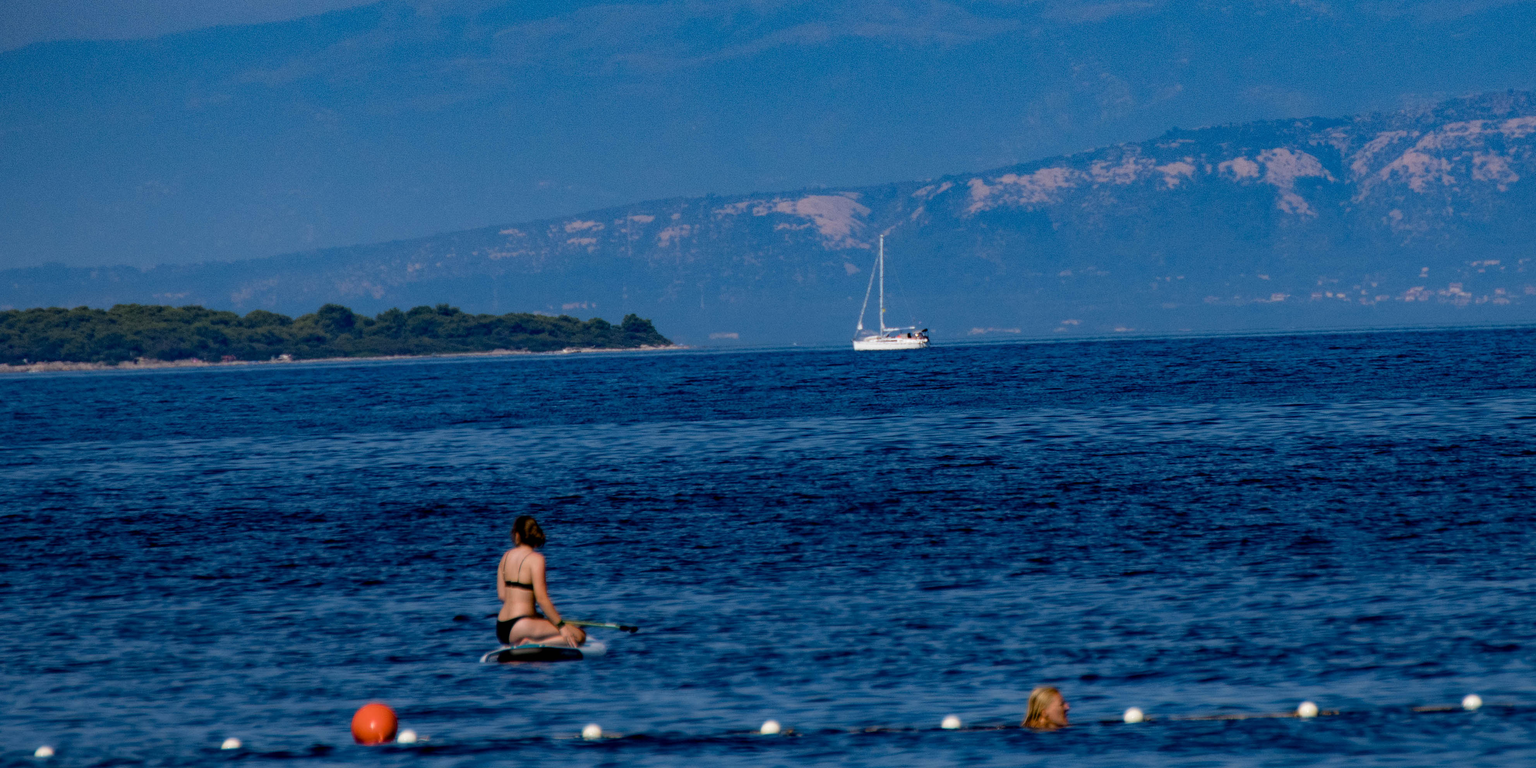
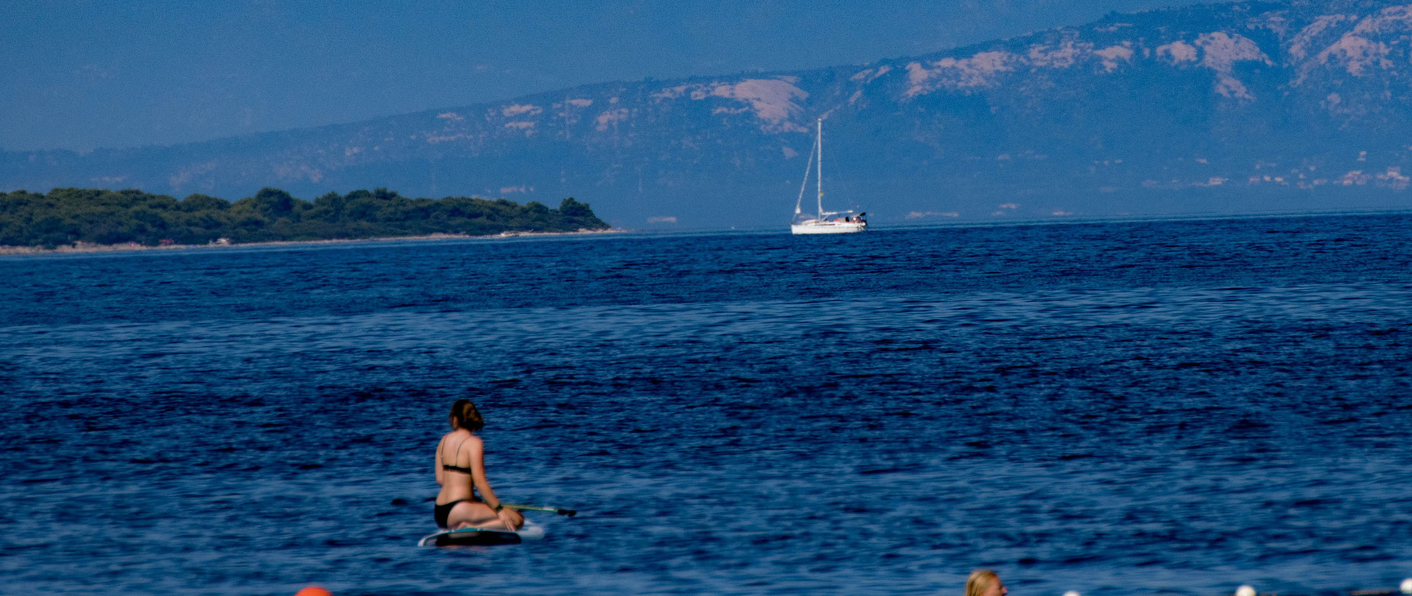
Abgabe_5_Fertigstellung

diff --git a/Aufgabe_5/Kontakt/index.html b/Aufgabe_5/Kontakt/index.html
@@ -19,8 +19,20 @@
                 <li style="float:left"><a class="logo" href="../Portfolio/"><img src="../Portfolio/Bilder/Logo.svg" alt="Logo HZB"></a></li>
             </ul>
     </header>
-    
-    <div><img src="./icon/Kopie von EDR_2345exp.jpg" alt="Portrait"></div>
+    <div id="slideshow">
+        <div class="slidewrapper">
+            <div class="slide">
+                <img src="../Slideshow/Kopie_2345exp.jpg"></div>
+            <div class="slide">
+                <img src="../Slideshow/EDR_1784exp.jpg"></div>
+            <div class="slide">
+                <img src="../Slideshow/Zuhause.jpg"></div>
+            <div class="slide">
+                <img src="../Slideshow/Anna_Ich.jpg"></div>
+            <div class="slide">
+                <img src="../Slideshow/Jetsky.jpg"></div>
+        </div>
+    </div>
 <h1>So können sie mich erreichen</h1>
     <p>E-mail: hannahzoebrauner@gmail.com</p>
     <p>Telefon: 017661916132</p>

diff --git a/Aufgabe_5/About Me/index.html b/Aufgabe_5/About Me/index.html
@@ -20,8 +20,20 @@
             </ul>
             
     </header>
-
-    <div><img src="./Bilder/Kopie von EDR_2345exp.jpg" alt="Portrait"></div>
+    <div id="slideshow">
+        <div class="slidewrapper">
+            <div class="slide">
+                <img src="../Slideshow/Kopie_2345exp.jpg"></div>
+            <div class="slide">
+                <img src="../Slideshow/EDR_1784exp.jpg"></div>
+            <div class="slide">
+                <img src="../Slideshow/Zuhause.jpg"></div>
+            <div class="slide">
+                <img src="../Slideshow/Anna_Ich.jpg"></div>
+            <div class="slide">
+                <img src="../Slideshow/Jetsky.jpg"></div>
+        </div>
+    </div>
 <h2>Steckbrief</h2>
 
     <p>Vorname : Hannah</p>

diff --git a/Aufgabe_5/Portfolio/index.css b/Aufgabe_5/Portfolio/index.css
@@ -129,8 +129,8 @@ footer{
 }
 
 #slideshow{
-    width: 100%;
-    height: 510px;
+    width: 1330px;
+    height: 500px;
     overflow: hidden;
     margin: 0 auto;
     position: relative;
@@ -138,18 +138,18 @@ footer{
 
 .slide {
     float: left;
-    height: 510px;
-    width: 100%; 
+    height: 500px;
+    width: 1330px; 
 }
 
 div img {
-    height: 650px;
-    width: 100%; 
+    height: 500px;
+    width: 1330px; 
 }
 
 .slidewrapper {
     width: calc(100% * 5);
-    animation: slide 5s ease infinite;
+    animation: slide 18s ease infinite;
 }
 
 
